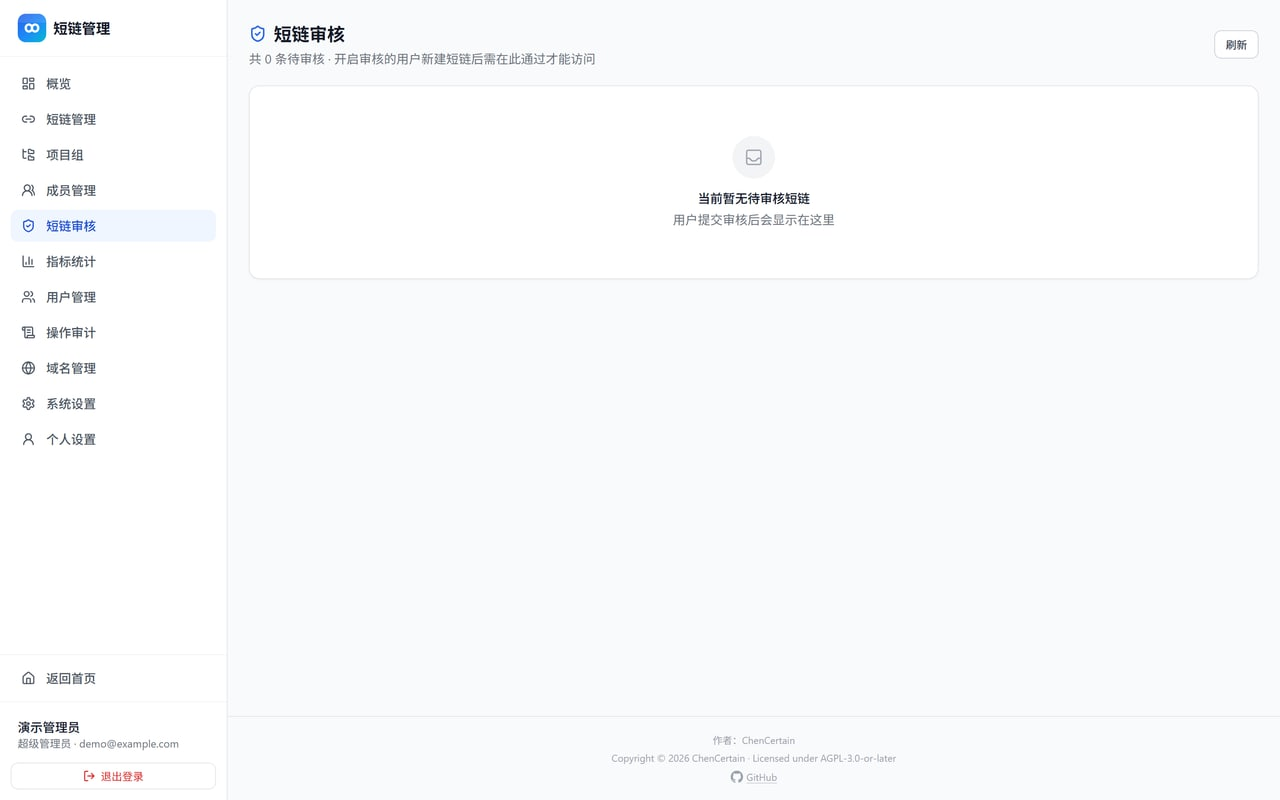
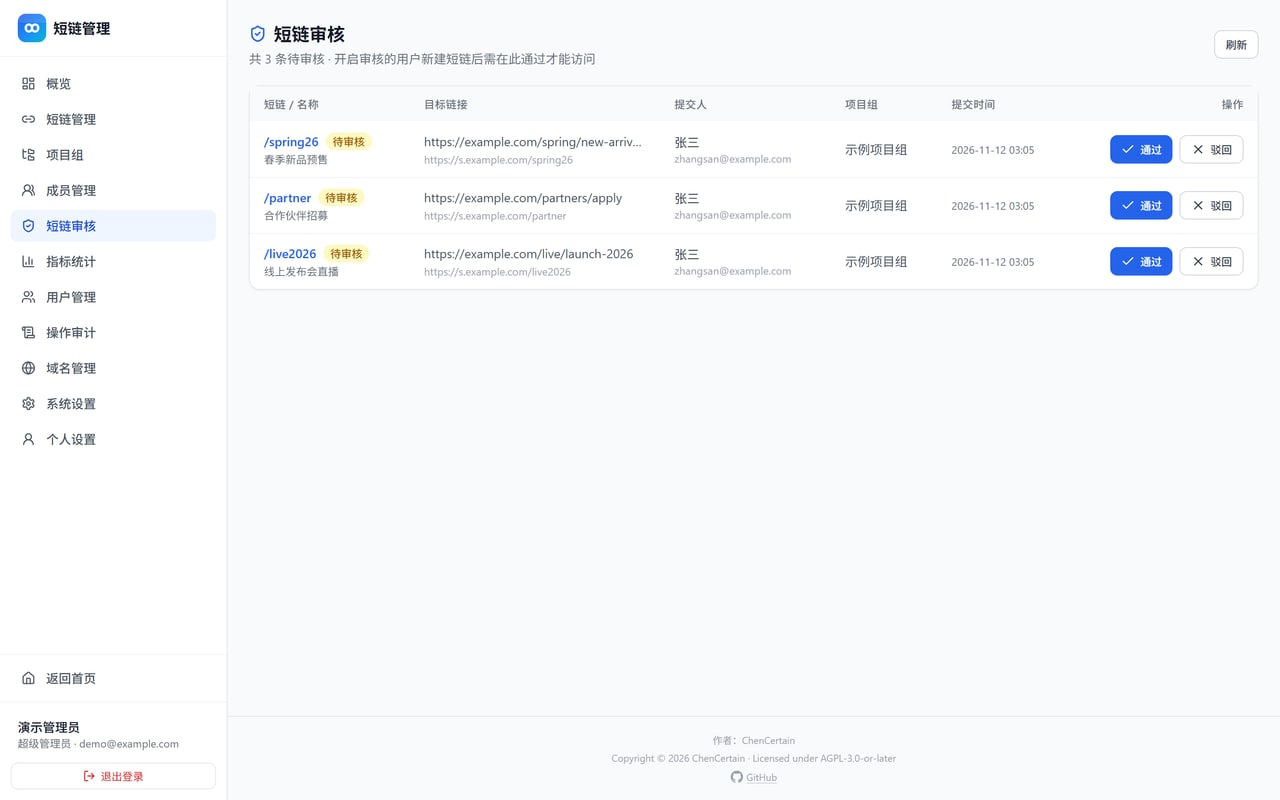
docs: 丰富界面预览截图
- 审核页补充待审核示例，展示成员提交、组内审核的完整流程
- 成员页展示组管理员身份与逐项自定义权限配置
- 用户详情展示登录 IP 属地与操作记录
- 短链使用可读别名，统计与审计数据更完整

diff --git a/README.md b/README.md
@@ -31,13 +31,21 @@
 
 ![项目组](docs/screenshots/groups.jpg)
 
-**成员管理** — 组内权限配置
+**成员管理** — 组内身份与权限摘要
 
 ![成员管理](docs/screenshots/members.jpg)
+
+**成员权限配置** — 逐项自定义覆盖默认权限
+
+![成员权限配置](docs/screenshots/members-perm.jpg)
 
 **用户管理** — 全局用户与角色
 
 ![用户管理](docs/screenshots/users.jpg)
+
+**用户详情** — 登录 IP 属地、所在组与操作记录
+
+![用户详情](docs/screenshots/users-detail.jpg)
 
 **短链审核** — 待审列表与审批
 
